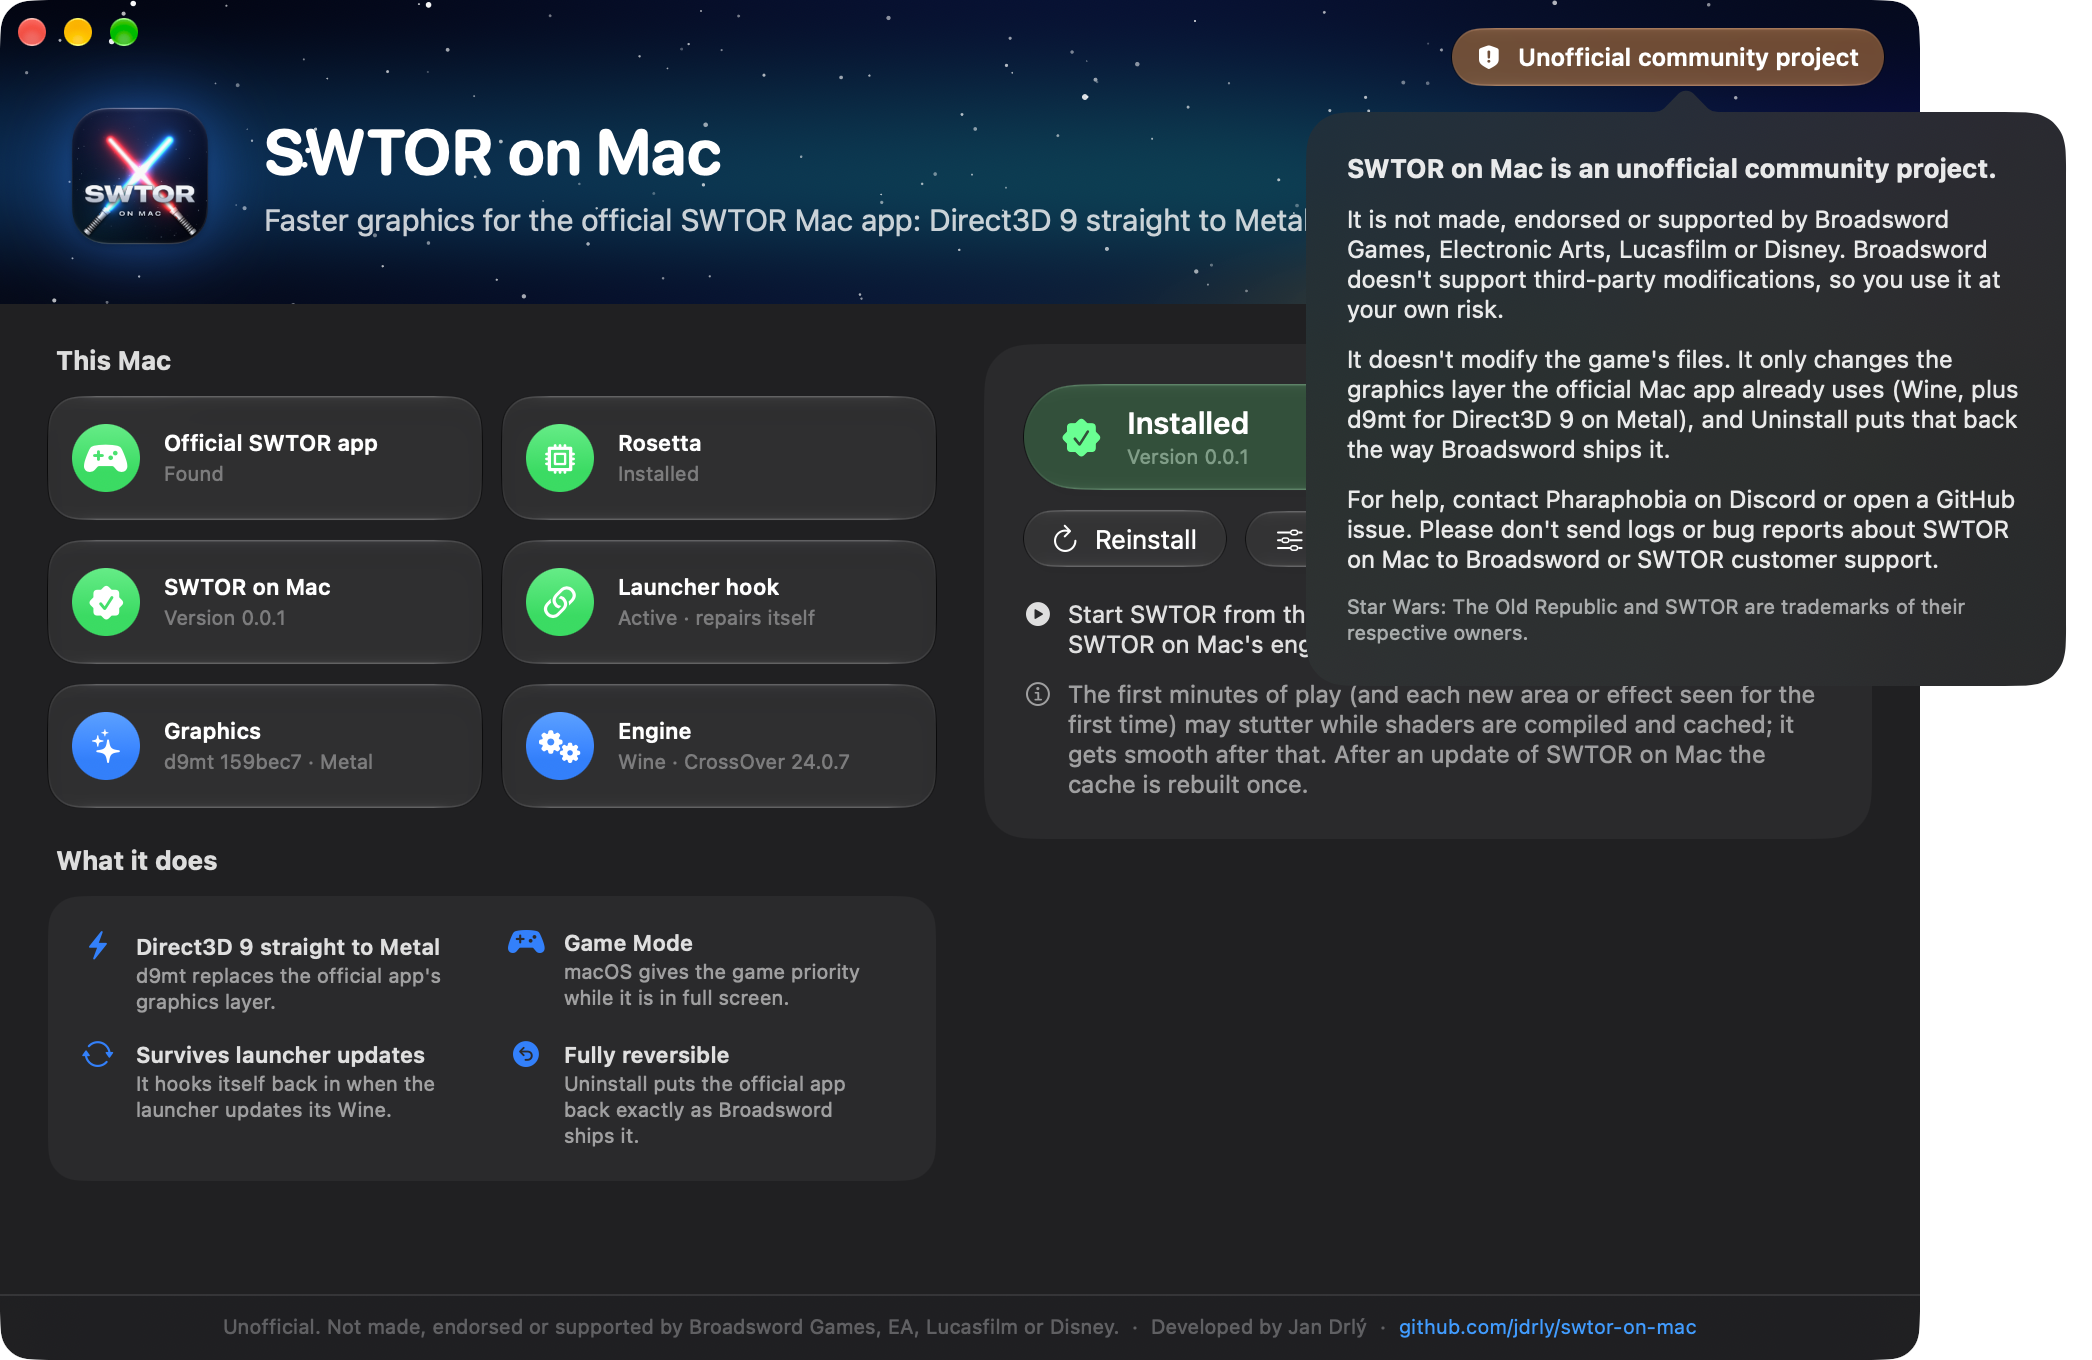
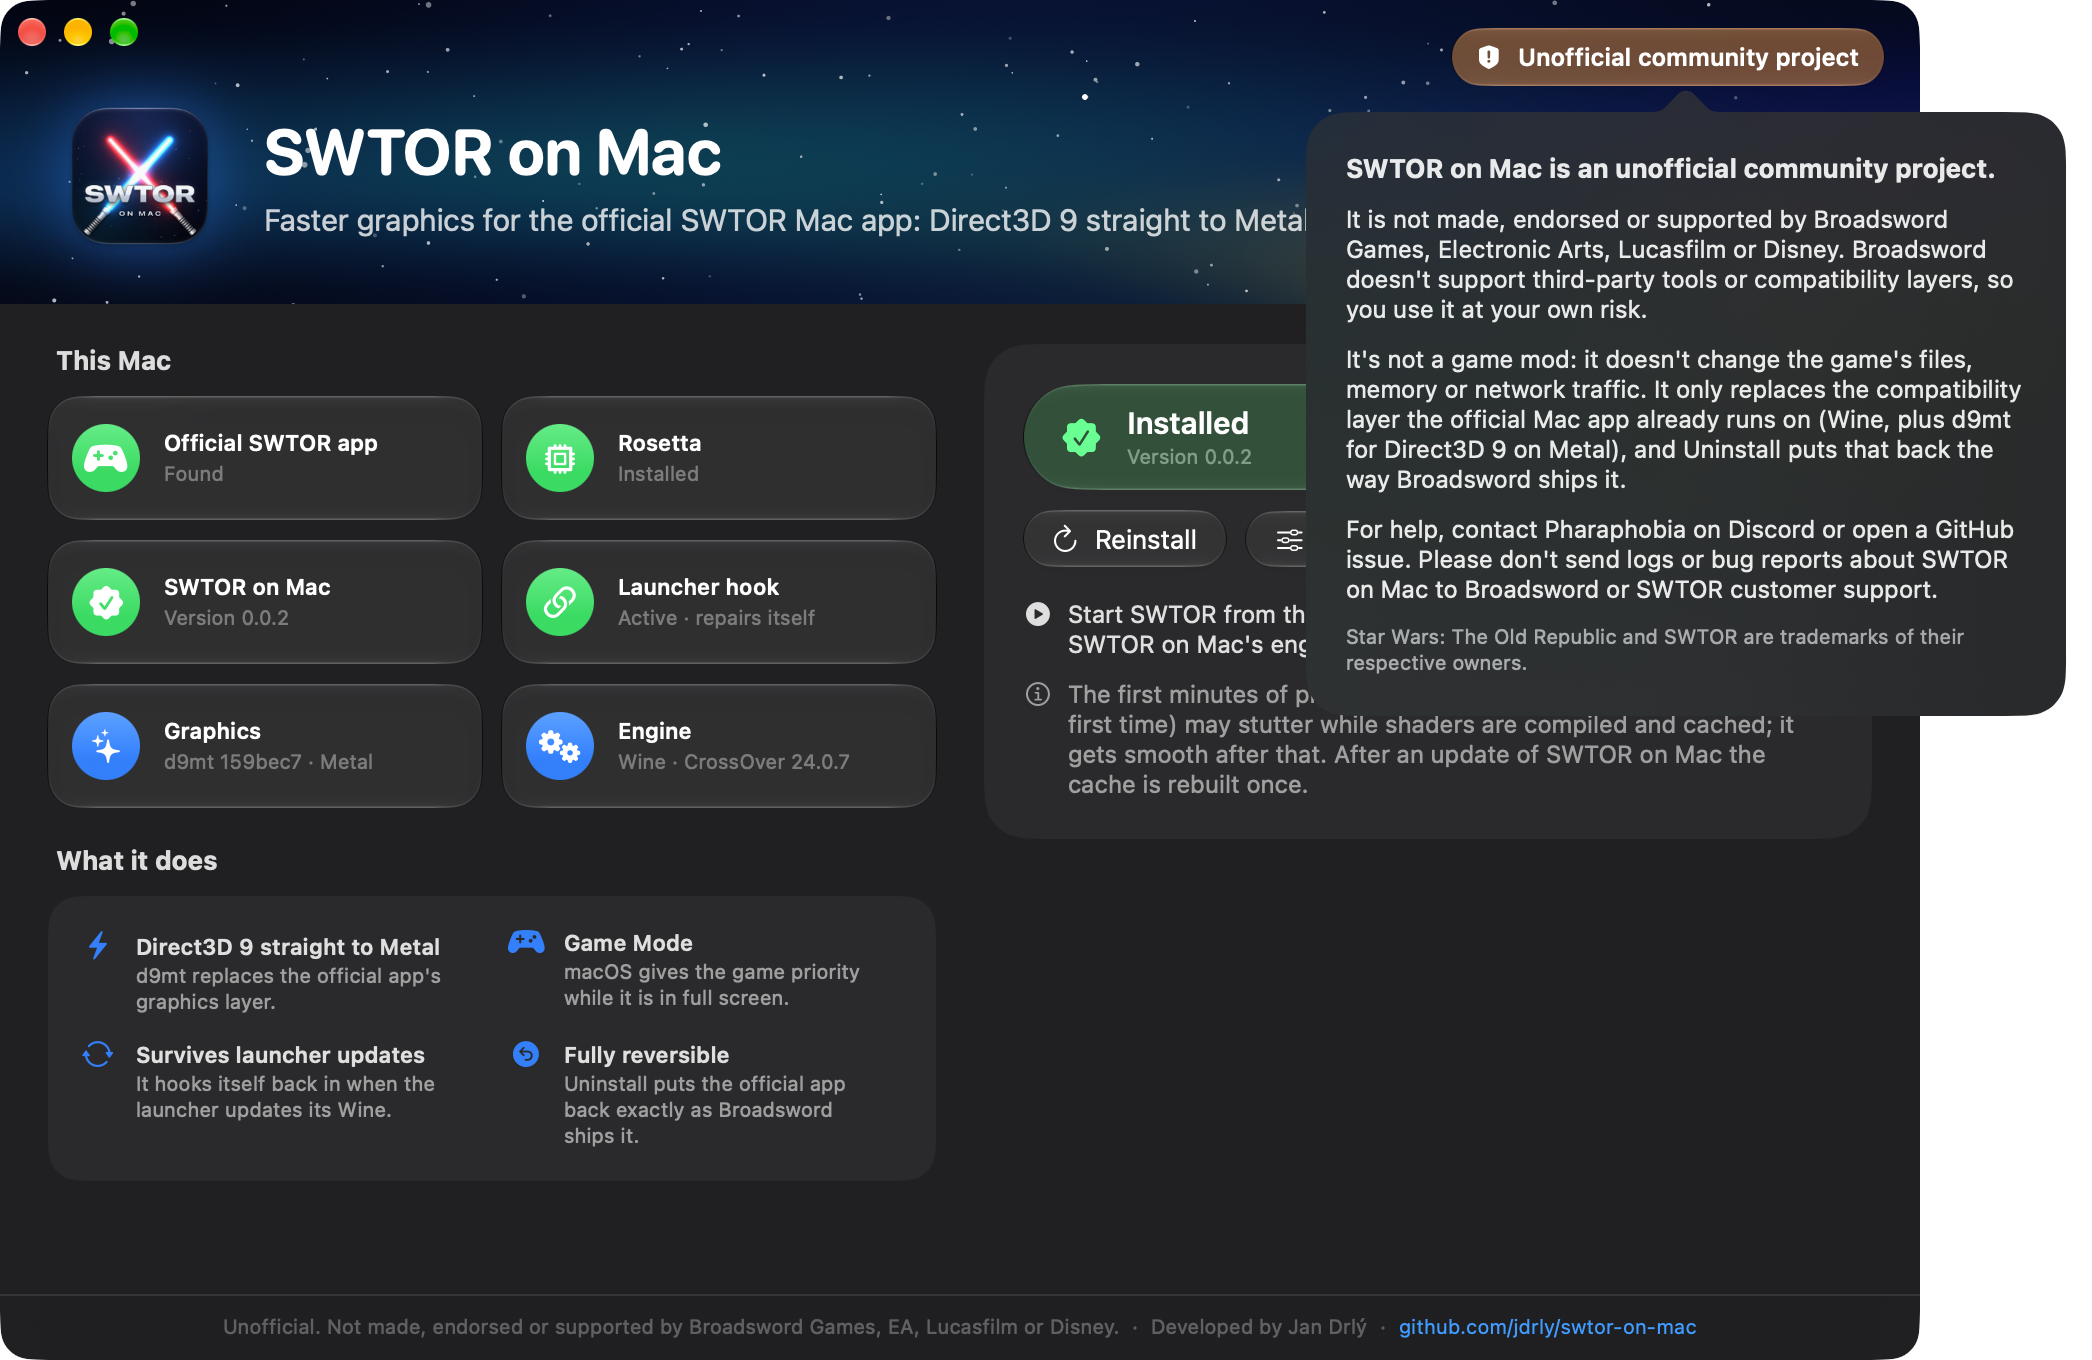
0.0.2: the notice says what SWTOR on Mac is, not a game mod (it doesn't change the game's files, memory or network traffic; it only replaces the compatibility layer the official Mac app already runs on); "third-party tools or compatibility layers" instead of "third-party modifications" in the app an

Changed region(s): [[0.6214, 0.1235, 0.9943, 0.525]]

diff --git a/src/native/MainWindow.swift b/src/native/MainWindow.swift
@@ -932,10 +932,11 @@ struct NoticeText: View {
         .font(.headline)
         .foregroundStyle(.primary)
       Text("It is not made, endorsed or supported by Broadsword Games, Electronic Arts, Lucasfilm or "
-           + "Disney. Broadsword doesn't support third-party modifications, so you use it at your own risk.")
-      Text("It doesn't modify the game's files. It only changes the graphics layer the official Mac app "
-           + "already uses (Wine, plus d9mt for Direct3D 9 on Metal), and Uninstall puts that back the "
-           + "way Broadsword ships it.")
+           + "Disney. Broadsword doesn't support third-party tools or compatibility layers, so you use "
+           + "it at your own risk.")
+      Text("It's not a game mod: it doesn't change the game's files, memory or network traffic. It only "
+           + "replaces the compatibility layer the official Mac app already runs on (Wine, plus d9mt for "
+           + "Direct3D 9 on Metal), and Uninstall puts that back the way Broadsword ships it.")
       Text("For help, contact Pharaphobia on Discord or open a GitHub issue. Please don't send logs or "
            + "bug reports about SWTOR on Mac to Broadsword or SWTOR customer support.")
       Text("Star Wars: The Old Republic and SWTOR are trademarks of their respective owners.")

diff --git a/README.md b/README.md
@@ -8,9 +8,12 @@ Mode. You keep starting the game from the official app, as usual.
 
 > **SWTOR on Mac is an unofficial community project.** It is not made, endorsed or supported
 > by Broadsword Games, Electronic Arts, Lucasfilm or Disney. Broadsword doesn't support
-> third-party modifications, so you use it at your own risk. It doesn't modify the game's
-> files: it only changes the graphics layer the official Mac app already uses (Wine, plus
-> d9mt for Direct3D 9 on Metal), and Uninstall puts that back the way Broadsword ships it.
+> third-party tools or compatibility layers, so you use it at your own risk.
+>
+> **It's not a game mod.** It doesn't change the game's files, memory or network traffic and
+> doesn't affect gameplay. It only replaces the compatibility layer the official Mac app
+> already runs on (Wine, plus d9mt for Direct3D 9 on Metal), the same kind of software as
+> CrossOver or Proton, and Uninstall puts that back the way Broadsword ships it.
 >
 > **All support for SWTOR on Mac comes from its developer, Jan Drlý (Pharaphobia).** For
 > help, contact Pharaphobia on Discord or open a
@@ -147,7 +150,7 @@ and the game's command line (the launcher passes the account on it) is never inc
 **Settings > Debug Logging** only when asked: it makes the logs much more detailed for the next
 game start, at some cost in performance, so turn it off again afterwards.
 
-## Known issues (0.0.1, first test version)
+## Known issues (0.0.x test versions)
 
 - **Stutter the first time** you see an area or effect, while d9mt compiles and caches its
   shaders (see [Install](#install)). It gets smooth after that.

diff --git a/release-notes/0.0.2.md b/release-notes/0.0.2.md
@@ -1,0 +1,14 @@
+## SWTOR on Mac 0.0.2
+
+Clearer wording of the notice; no functional changes.
+
+- The notice (before you install, and behind the *Unofficial community project* badge) now
+  says plainly what SWTOR on Mac is: not a game mod. It doesn't change the game's files,
+  memory or network traffic; it only replaces the compatibility layer the official Mac app
+  already runs on (Wine, plus d9mt for Direct3D 9 on Metal).
+
+### Support
+SWTOR on Mac is an unofficial project, not made, endorsed or supported by Broadsword Games, EA,
+Lucasfilm or Disney, and you use it at your own risk. Please send questions and bug reports to
+Pharaphobia on Discord or as a [GitHub issue](https://github.com/jdrly/swtor-on-mac/issues),
+never to Broadsword or SWTOR customer support.
